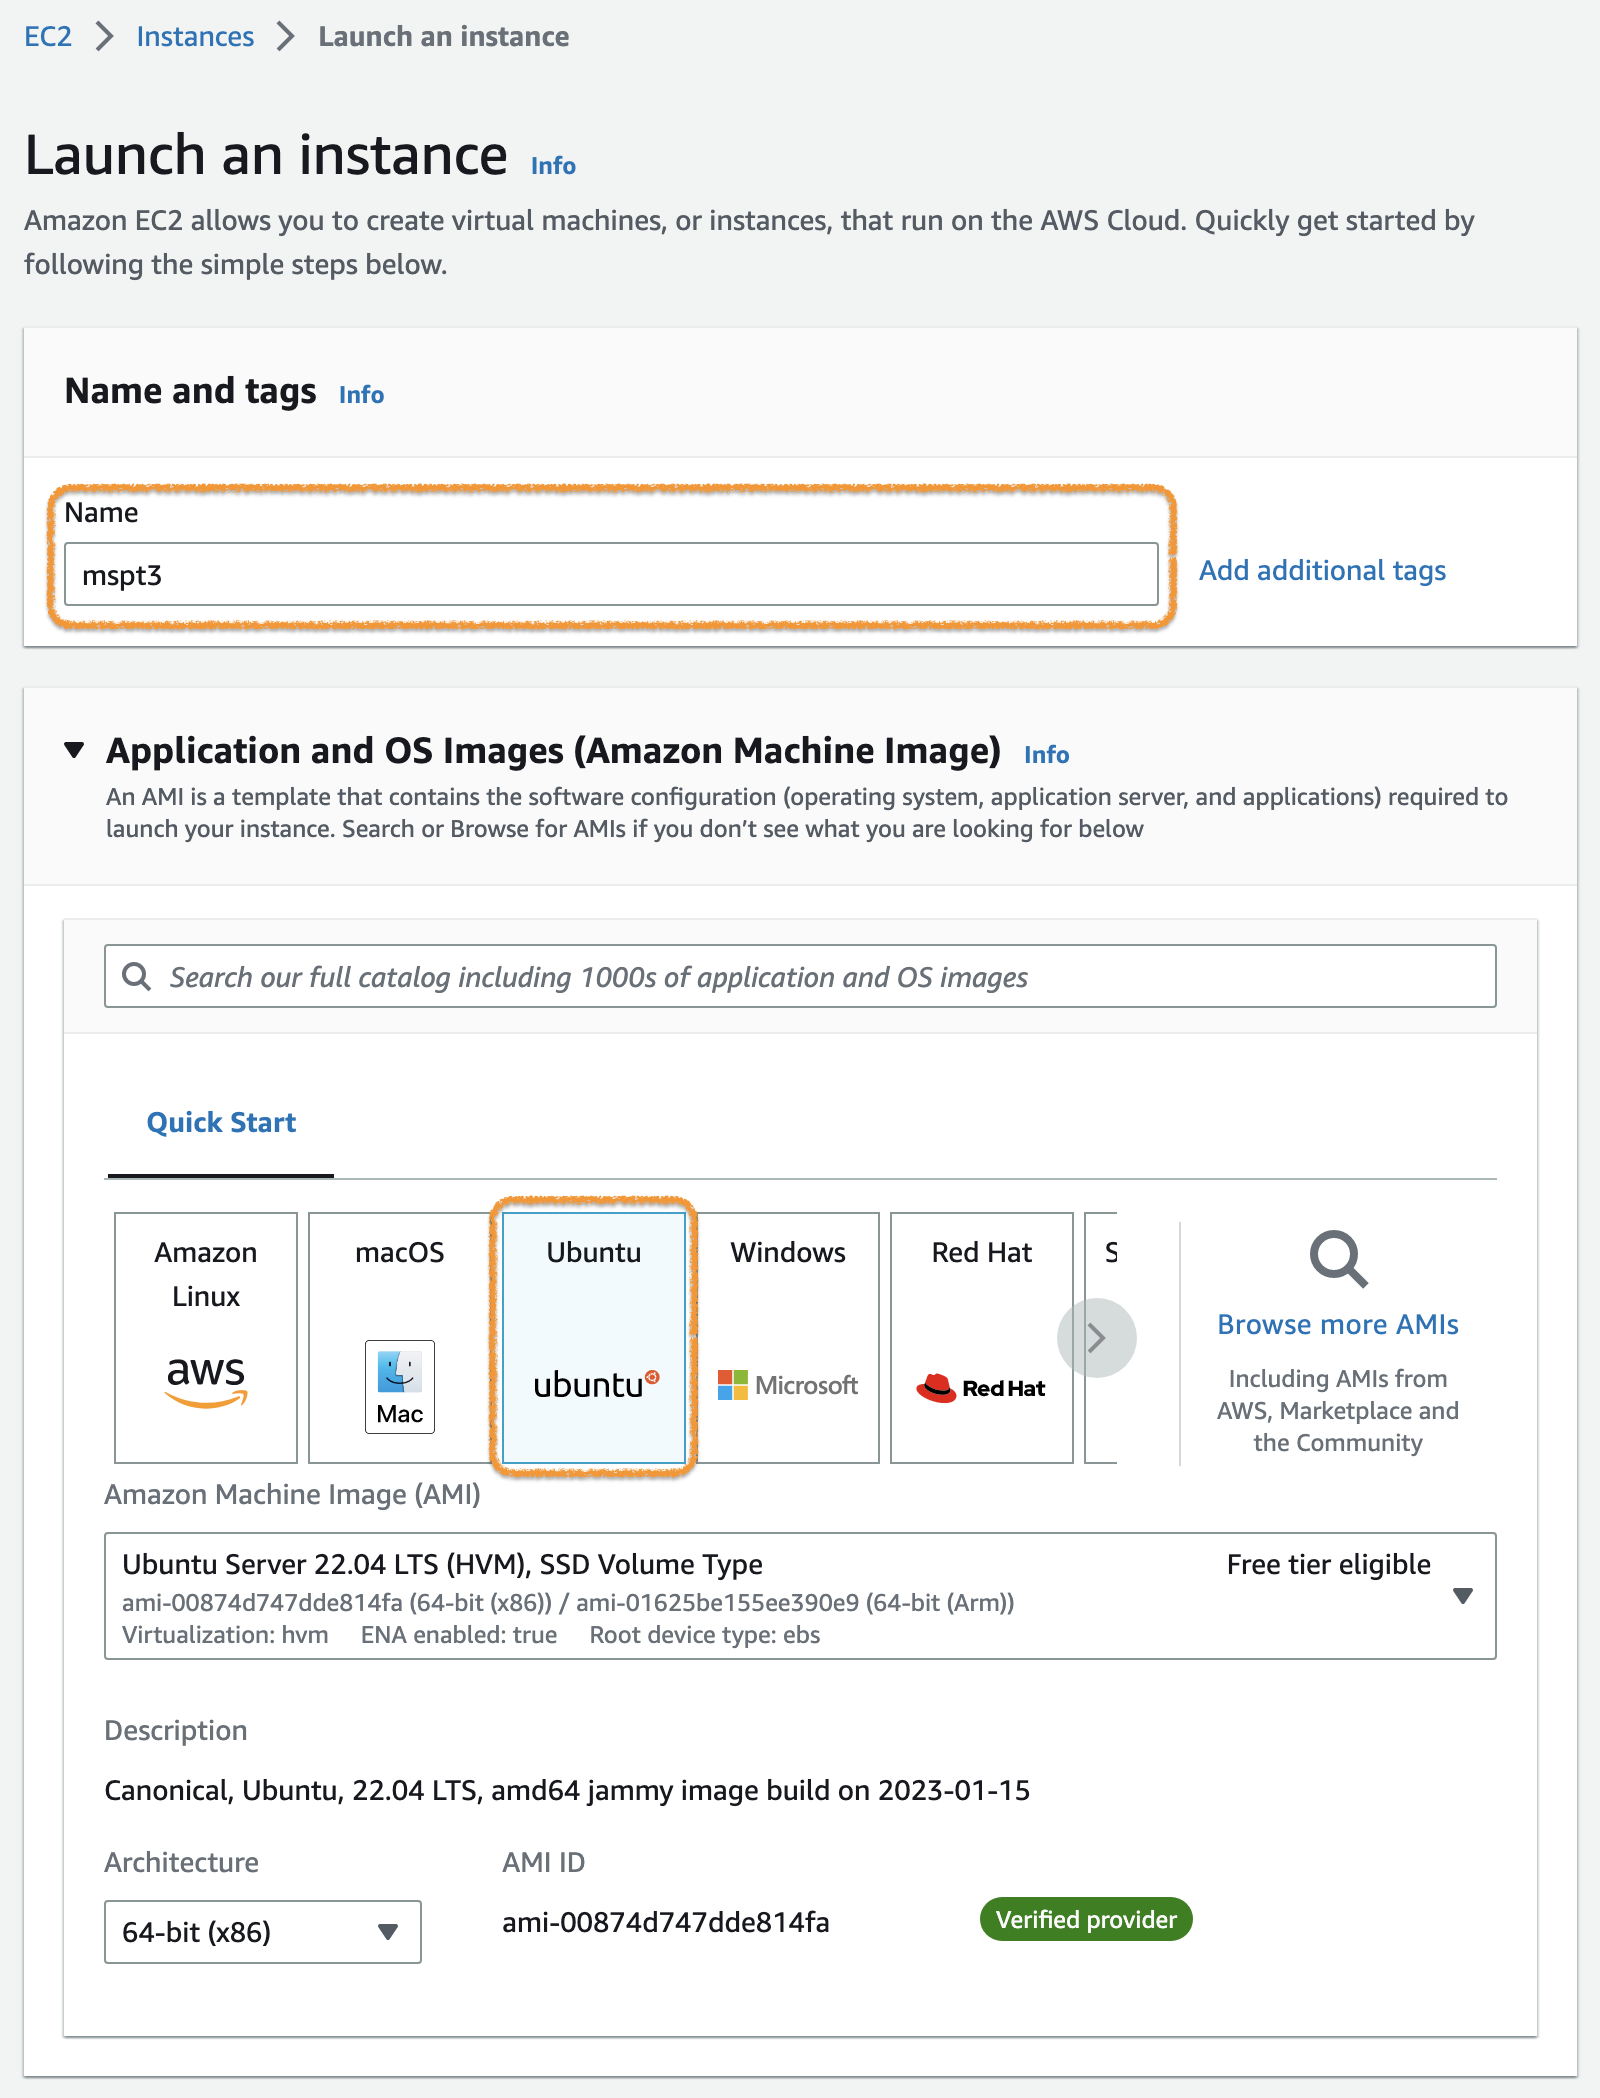
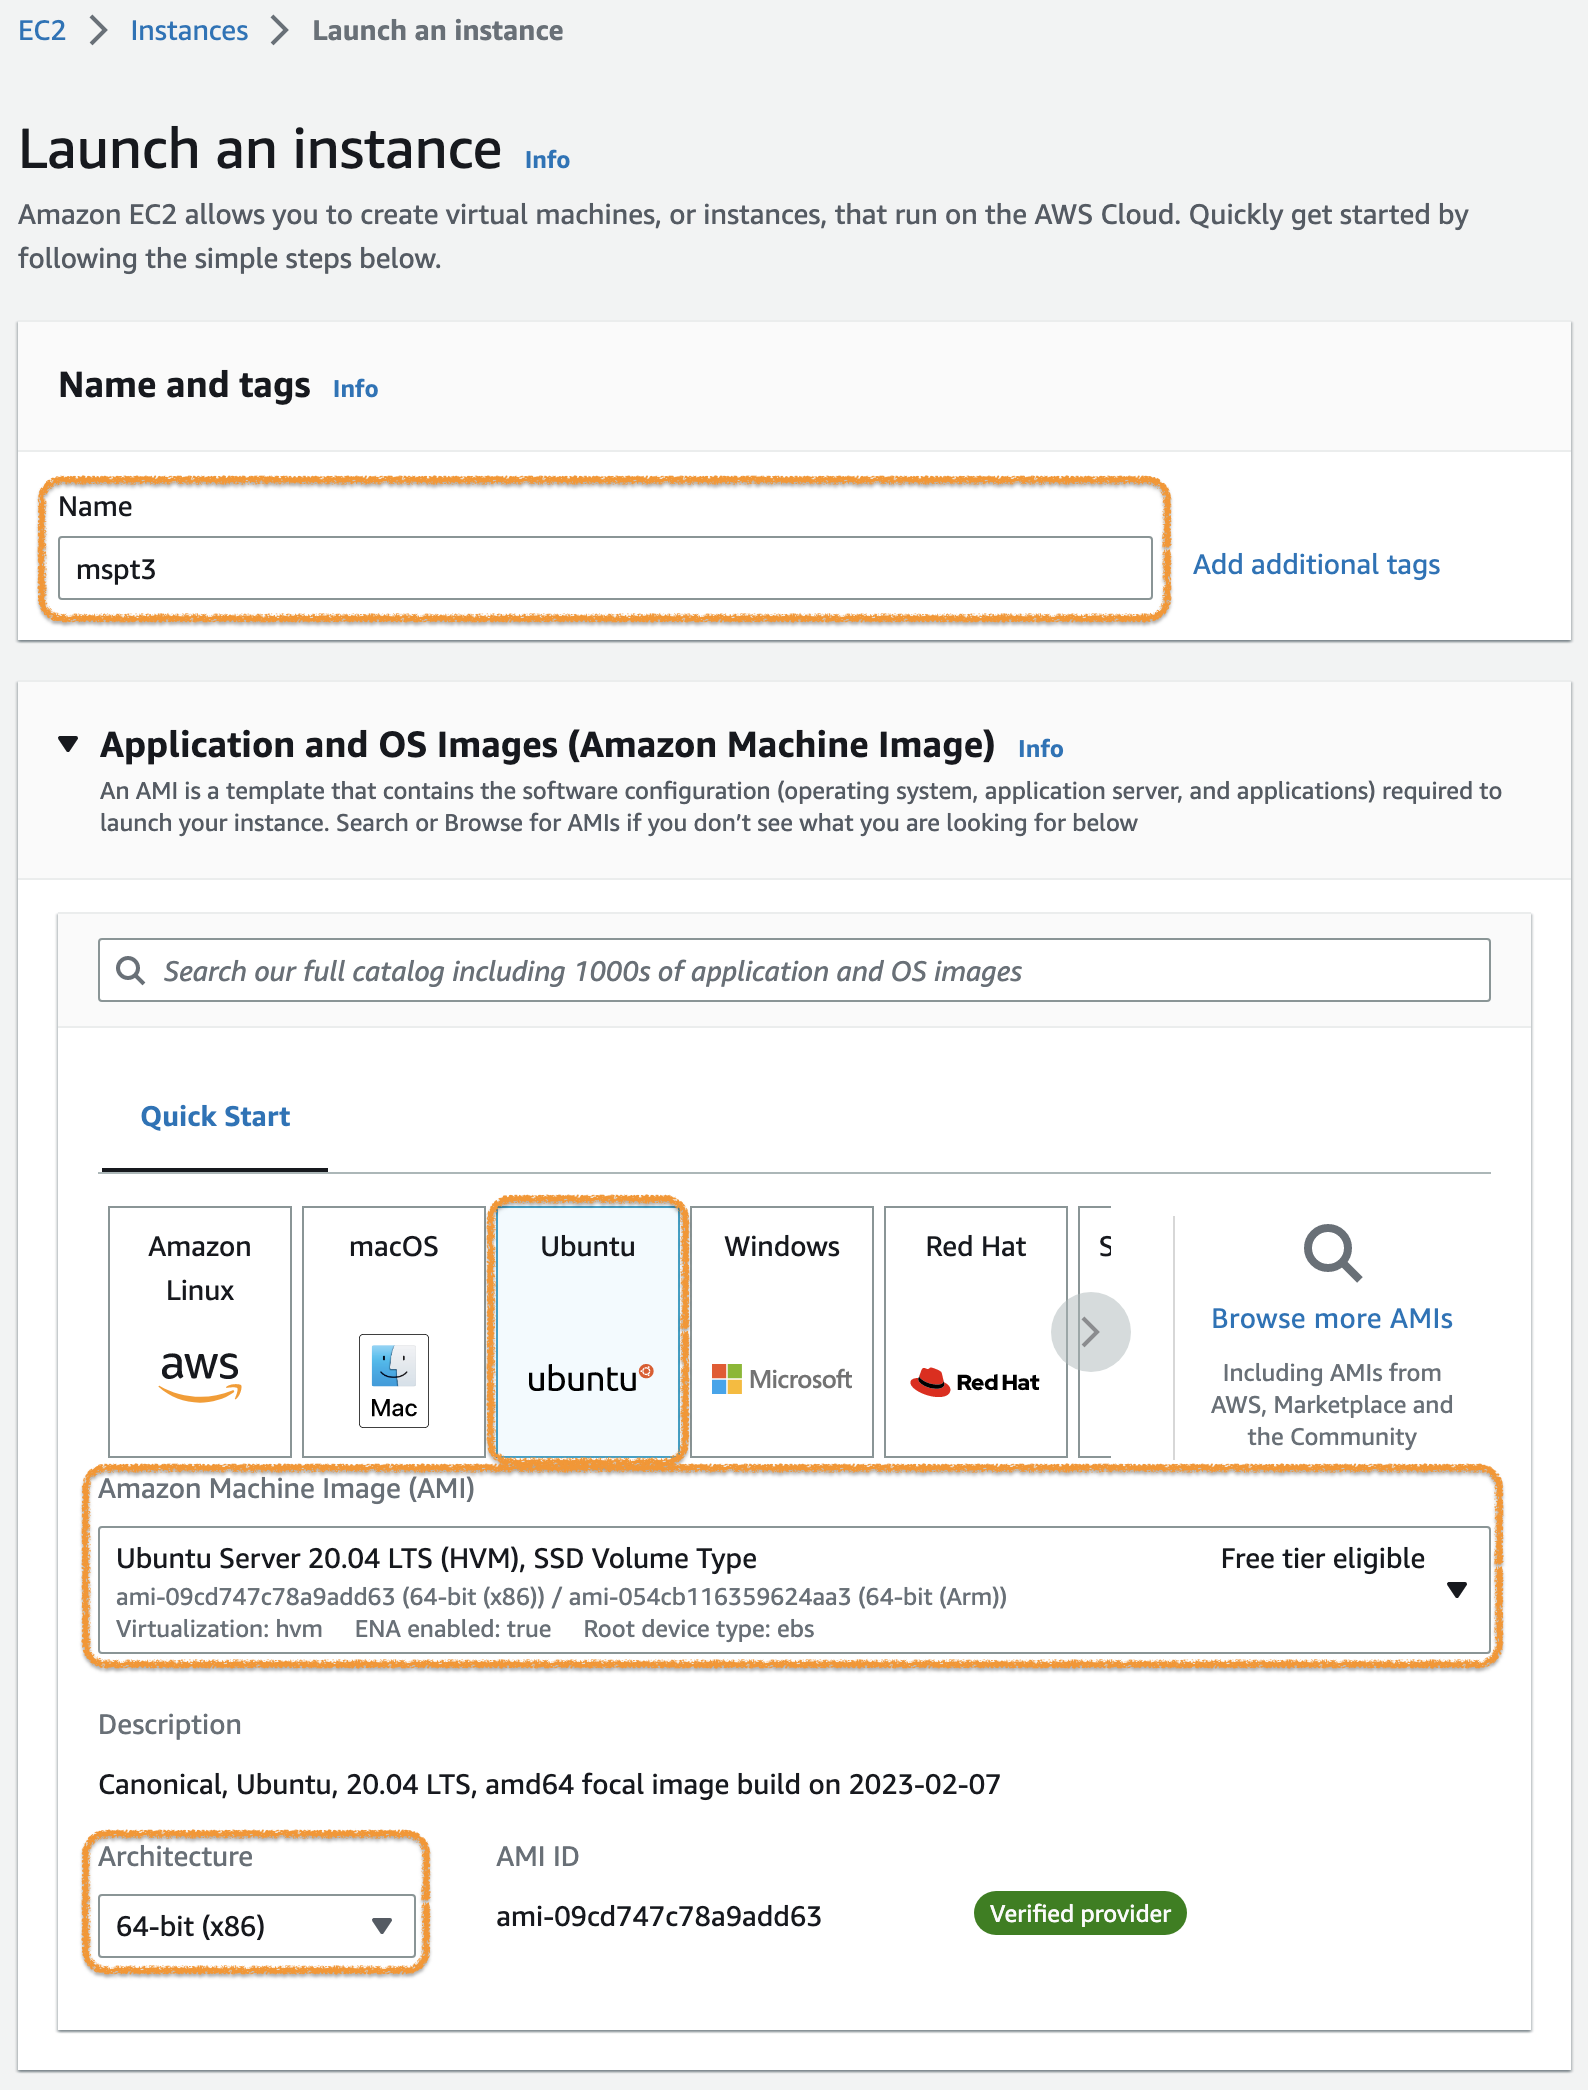
.

diff --git a/doc/[Hands-on] 01_Environment_Setup-Docker.md b/doc/[Hands-on] 01_Environment_Setup-Docker.md
@@ -26,17 +26,17 @@
 ![](img/aws_signin_1.png)
 > 화면 우측 상단의 `Sign in to the Console`을 클릭합니다.
 
-<br>
+<br><br><br>
 
 ![](img/aws_signin_2.png)
 > **Account ID**와 **IAM user name**을 이용해서 `sign in` 합니다.
 
-<br>
+<br><br><br>
 
 ![](img/aws_signin_3.png)  
 > [MFA](https://docs.aws.amazon.com/ko_kr/singlesignon/latest/userguide/enable-mfa.html) 구성을 한 경우, 위 그림과 같은 화면에서 `MFA Code`를 입력해야 합니다.
 
-<br>
+<br><br><br>
 
 ![](img/aws_signin_4.png)
 > Sign in 후에는 가장 먼저 어느 **Region**에 VM Instance를 구성할지 결정해야 합니다.
@@ -44,60 +44,62 @@
 
 - 반(별로 정해진 **Region**이 있습니다. 확인 후 진행해주세요.
 
-<br>
+<br><br><br>
 
 이제 EC2 Instance를 만들어 보겠습니다.
 
 ![](img/aws_ec2_1.png)
 > **서비스** 중에서 **EC2**를 검색하고 이동합니다.
 
-<br>
+<br><br><br>
 
 ![](img/aws_ec2_2.png)
 > **EC2 dashboard** 화면에서 `Launch instance`버튼을 클릭합니다.
 
-<br>
+<br><br><br>
 
 ![](img/aws_ec2_3.png)
-> Instance 이름을 **mspt3**로 하고, **AMI(Amazon Machine Image)** 중에서 **Ubuntu**를 선택합니다.
+> Instance 이름을 **mspt3**로 하고, **AMI(Amazon Machine Image)** 중에서 **Ubuntu**를 선택합니다.  
+> Ubuntu 버젼은 **Ubuntu Server 20.04 LTS(HVM), SSD Volume Type** 을, Architecture는 **64-bit (x86)** 을 선택합니다.
 
-<br>
+<br><br><br>
 
 ![](img/aws_ec2_4.png)
 > 그 다음 Instance type은 `t3.medium`을 선택합니다.
 
-<br>
+<br><br><br>
 
 ![](img/aws_ec2_5.png)
 > **Key pair**는 기존의 것을 사용하거나, 없는 경우에는 `Create new key pair`를 눌러 **Key pair** 생성 화면으로 이동합니다.
 
-<br>
+<br><br><br>
 
 ![](img/aws_ec2_6.png)
-> 신규 생성이 필요한 경우 Key pair name에 **mspt3**를 입력하고,  **RSA** type과 **.pem** format 선택 후 `Create key pair`버튼을 클릭합니다.
+> 신규 생성이 필요한 경우 Key pair name에 **mspt3**를 입력하고,  **RSA** type과 **.pem** format 선택 후 `Create key pair`버튼을 클릭합니다.  
+- 생성되면 브라우저를 통해서 **mspt3.pem** 파일이 다운로드 됩니다. 잘 보관해두세요.
 
-> 생성되면 브라우저를 통해서 **mspt3.pem** 파일이 다운로드 됩니다. 잘 보관해두세요.
-
-<br>
+<br><br><br>
 
 
 ![](img/aws_ec2_7.png)
-다시 Instance 생성 화면으로 돌아오면, 앞에서 생성한 **Key pair**를 선택할 수 있습니다.
+> 다시 Instance 생성 화면으로 돌아오면, 앞에서 생성한 **Key pair**를 선택할 수 있습니다.
+
+<br><br><br>
 
 ![](img/aws_ec2_8.png)
-그 다음 Network settings에서 `Edit`버튼을 클릭하여 상세 설정을 진행합니다.
+> 그 다음 Network settings에서 `Edit`버튼을 클릭하여 상세 설정을 진행합니다.
 
-
+<br><br><br>
 
 ![](img/aws_ec2_9.png)
-위 그림과 같이 입력합니다. (상세 내용은 다음페이지에 있습니다.)
+> 위 그림과 같이 입력합니다. (상세 내용은 다음페이지에 있습니다.)
 
-
+<br><br><br>
 
 ### Network 구성 (Network Settings)
 
 | **구분**                            | **설정**                          |
-|  |  |
+| --- | --- |
 | **VPC**                           | default VPC를 선택                  |
 | **Subnet**                        | subnet 중 하나를 선택 (public subnet) |
 | **Auto-assign public IP**         | Enable                            |
@@ -105,57 +107,58 @@
 | **Security group name**           | mspt3-sg                          |
 | **Description**                   | sg for mspt3                      |
 | **Inbound security groups rules** | ssh (TCP,22) , My IP              |
-
 > Security group은 우선 꼭 필요한 ssh (TCP,22) 만 My IP로 설정합니다. (이후에 추가로 설정합니다.)
 
-
+<br><br><br>
 
 ![](img/aws_ec2_10.png)
-Storage를 20GiB로 설정합니다.
+> Storage를 20GiB로 설정합니다.
+
+<br><br><br>
 
 ![](img/aws_ec2_11.png)
-Number of instances를 1로 하고 `Launch instance`버튼을 클릭합니다.
+> Number of instances를 1로 하고 `Launch instance`버튼을 클릭합니다.
 
-
+<br><br><br>
 
 ![](img/aws_ec2_12.png)
-정상적으로 EC2 Instance가 생성되면 화면과 같이 표시됩니다.
+> 정상적으로 EC2 Instance가 생성되면 화면과 같이 표시됩니다.
 
-> SSH 접속을 위해 필요한 **Public IPv4 address** 또는 **Public IPv4 DNS** 정보를 기록해둡니다.
+- SSH 접속을 위해 필요한 **Public IPv4 address** 또는 **Public IPv4 DNS** 정보는 이 화면에서 확인 가능합니다.
 
+<br><br><br>
 
-
-과정중에는 SSH를 이용한 Instance 접속 외에도, 실행되는 애플리케이션 접속도 필요합니다.
-애플리케이션 접속을 위해서 추가적인 Security group 설정을 진행합니다.
+과정중에는 SSH를 이용한 Instance 접속 외에도, 실행되는 애플리케이션 접속도 필요합니다.  
+애플리케이션 접속을 위해서 추가적인 **Security group** 설정을 진행합니다.
 
 ![](img/aws_ec2_13.png)
-위와같이 EC2 Instance의 **Security** 탭에서 해당 **Security group**으로 이동합니다. (Security group명 옆의 아이콘 클릭)
+> 위와같이 EC2 Instance의 **Security** 탭에서 해당 **Security group**으로 이동합니다. (Security group명 옆의 아이콘 클릭)
 
-
+<br><br><br>
 
 ![](img/aws_ec2_14.png)
-Serurity group화면의 Inbound rules 탭에서 `Edit inbound rules` 버튼을 클릭합니다.
+> Serurity group화면의 Inbound rules 탭에서 `Edit inbound rules` 버튼을 클릭합니다.
 
-
+<br><br><br>
 
 ![](img/aws_ec2_15.png)
-`Add rule` 버튼을 누르면 규칙을 추가할 수 있습니다. 아래 규칙을 추가해주세요.
+> `Add rule` 버튼을 누르면 규칙을 추가할 수 있습니다. 아래 규칙을 추가해주세요.
 
 | **Type**   | **Port range** | Source |
-| - | -- |  |
+| --- | --- | --- |
 | Custom TCP | 80             | My IP  |
 | Custom TCP | 443            | My IP  |
 | Custom TCP | 8080           | My IP  |
 | Custom TCP | 3000           | My IP  |
 | Custom TCP | 30000-32767    | My IP  |
 
-
+<br><br><br>
 
 ## VM Instance 접속하기
 
 생성된 VM Instance의 접속(SSH)은 다음의 방법 중 하나를 사용하면 됩니다.
 
-- **[접속방법1]** Terminal 프로그램 (e.g. PowerShell, cmder, iTerm, etc.)
+- **[접속방법1]** Terminal 프로그램 (e.g. [Windows terminal](https://docs.microsoft.com/ko-KR/windows/terminal/install), PowerShell, [cmder](https://cmder.app/), [iTerm2](https://iterm2.com/), etc.)
 - **[접속방법2]** MobaXterm
 
 SSH 접속을 위해서는 다음을 먼저 확인해야 합니다.
@@ -166,34 +169,28 @@ SSH 접속을 위해서는 다음을 먼저 확인해야 합니다.
 
 준비가 됐으면 **[접속방법1]** 또는 **[접속방법2]** 중 하나를 선택하고 해당부분으로 이동하세요.
 
-<br><br><br><br><br><br><br>
+<br>
 
 > 다양한 접속방법에 대한 자세한 설명은 AWS 문서인 [Linux 인스턴스에 연결합니다](https://docs.aws.amazon.com/ko_kr/AWSEC2/latest/UserGuide/AccessingInstances.html)를 참고하세요.
 
+<br><br><br>
 
-
-**[접속방법1]** Terminal 프로그램
+**[접속방법1]** Terminal 프로그램  
 기본적인 터미널 프로그램을 사용한 접속방법 입니다.
 
-OS마다 제공되는 기본 툴을 사용해도 되고, 별도로 설치해서 사용해도 됩니다.
+OS마다 제공되는 기본 툴을 사용해도 되고, 별도로 설치해서 사용해도 됩니다.  
 윈도우즈인 경우 [Windows Terminal](https://apps.microsoft.com/store/detail/windows-terminal/9N0DX20HK701?hl=ko-kr&gl=kr&rtc=1)를 사용하면 여러가지 기능을 사용할 수 있어 편리합니다. (선택사항)
 
 AWS Console에서 EC2 > Instances 화면으로 이동합니다.
 ![](img/terminal1.png)
-접속하려는 EC2 Instance를 선택하고, `Connect`버튼을 클릭합니다.
+> 접속하려는 EC2 Instance를 선택하고, `Connect`버튼을 클릭합니다.
 
-
+<br><br><br>
 
 ![](img/terminal2.png)
-위 그림과 같이 **Connect to instance** 화면에서 **SSH client** 탭을 클릭하고, 아래 표시되는 절차에 따라 접속을 진행합니다.
+> 위 그림과 같이 **Connect to instance** 화면에서 **SSH client** 탭을 클릭하고, 아래 표시되는 절차에 따라 접속을 진행합니다.
 
-> 윈도우즈 환경에서는 3번 절차 (chomod 400 mspt3.pem)를 진행할 수 없습니다. 다음장의 내용을 참고하세요.
-
-
-
-(윈도우즈 환경인 경우 3번 절차 처리방법)
-터미널 프로그램(e.g. PowerShell)에서 다음과 같이 실행합니다.
-
+- 윈도우즈 환경에서는 3번 절차 (chomod 400 mspt3.pem)를 진행할 수 없습니다. 터미널 프로그램(e.g. PowerShell)에서 다음과 같이 실행합니다.
 ```shell
 > icacls.exe mspt3.pem /reset
 처리된 파일: mspt3.pem
@@ -205,29 +202,33 @@ AWS Console에서 EC2 > Instances 화면으로 이동합니다.
 처리된 파일: mspt3.pem
 1 파일을 처리했으며 0 파일은 처리하지 못했습니다.
 ```
+![](img/handson.png)
+> ```bash
+> icacls.exe mspt3.pem /reset
+> icacls.exe mspt3.pem /GRANT:R "$($env:USERNAME):(R)"
+> icacls.exe mspt3.pem /inheritance:r
+> ```
 
-> **명령어** : `icacls.exe mspt3.pem /reset`
-> **명령어** : `icacls.exe mspt3.pem /GRANT:R "$($env:USERNAME):(R)"`
-> **명령어** : `icacls.exe mspt3.pem /inheritance:r`
+<br>
 
-![h:200](img/terminal3.png) 그림과 같이 mspt3.pem 파일의 권한을 변경하는 것입니다.
-
+![h:200](img/terminal3.png)
+> 그림과 같이 mspt3.pem 파일의 권한을 변경하는 것입니다.
 > 자세한 내용은은 [오류: 보호되지 않는 프라이빗 키 파일](https://docs.aws.amazon.com/ko_kr/AWSEC2/latest/UserGuide/TroubleshootingInstancesConnecting.html#troubleshoot-unprotected-key)의 내용을 참고하세요.
 
-
+<br><br><br>
 
 ![](img/terminal4.png)
-필요한 모든 절차를 거치고 정상적으로 접속되면 위와같은 화면이 표시됩니다.
+> 필요한 모든 절차를 거치고 정상적으로 접속되면 위와같은 화면이 표시됩니다.
 
-
+<br><br><br>
 
 **[접속방법2]**  MobaXterm
 MobaXterm을 이용하여 VM Instance에 접속하는 방법입니다.
 
 ![](img/mobaxterm1.png)
-MobaXterm을 실행하고 `Session` 버튼을 클릭합니다.
+> MobaXterm을 실행하고 `Session` 버튼을 클릭합니다.
 
-
+<br><br><br>
 
 ![](img/mobaxterm2.png)
 접속방식은 `SSH`를 선택하고 다음 정보를 입력한 다음 `OK`버튼을 클릭하여 접속합니다.
@@ -236,11 +237,11 @@ MobaXterm을 실행하고 `Session` 버튼을 클릭합니다.
 - **Specify username** : ubuntu
 - **Use private key** : mspt3.pem
 
-
+<br><br><br>
 
 ![](img/mobaxterm3.png)
-접속되면 위와같은 화면이 표시됩니다.
-다음 번 접속부터는 **Quick connect**의 **User session**을 이용할 수 있습니다.
+> 접속되면 위와같은 화면이 표시됩니다.  
+> 다음 번 접속부터는 **Quick connect**의 **User session**을 이용할 수 있습니다.
 
 
 
@@ -254,12 +255,12 @@ MobaXterm을 실행하고 `Session` 버튼을 클릭합니다.
 
 우리 실습에는 앞에서 만든 **Ubuntu linux**에 **Docker Engine**을 설치해서 진행하도록 하겠습니다.
 
-> 설치를 위해서는 [OS requirements](https://docs.docker.com/engine/install/ubuntu/#os-requirements)를 만족하는 조건이어야 합니다.
-> 우리가 만든 환경은 이 조건에 맞는 **Ubuntu 22.04(LTS)** 64bit 버젼 입니다.
+> 설치를 위해서는 [OS requirements](https://docs.docker.com/engine/install/ubuntu/#os-requirements)를 만족하는 조건이어야 합니다.  
+> 우리가 만든 환경은 이 조건에 맞는 **Ubuntu 20.04(LTS)** 64bit 버젼 입니다.
 
 ### [Uninstall old versions](https://docs.docker.com/engine/install/ubuntu/#uninstall-old-versions)
 
-기존에 설치된 버젼이 있거나 다시 설치를 진행하려고 하는 경우 먼저 기존버젼 삭제를 진행합니다.
+기존에 설치된 버젼이 있거나 다시 설치를 진행하려고 하는 경우 먼저 기존버젼 삭제를 진행합니다.  
 처음 설치를 하는 경우라면, 생략하고 다음 단계를 진행합니다.
 
 ```bash
